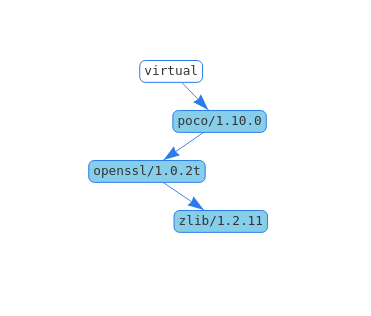
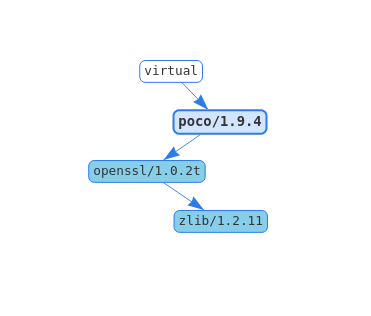
Set Poco/1.9.4 as default version

Changed region(s): [[0.4447, 0.3418, 0.7412, 0.4272]]

diff --git a/using_packages/conanfile_txt.rst b/using_packages/conanfile_txt.rst
@@ -25,7 +25,7 @@ packages are stored and cached, so they don't have to be retrieved again. You ca
 If you navigate to the folders referenced in ``conanbuildinfo.cmake`` you will find the
 headers and libraries for each package.
 
-If you execute a :command:`conan install poco/1.10.0@` command in your shell, Conan will
+If you execute a :command:`conan install poco/1.9.4@` command in your shell, Conan will
 download the Poco package and its dependencies (*openssl/1.0.2t* and
 *zlib/1.2.11*) to your local cache and print information about the folder where
 they are installed. While you can install each of your dependencies individually like that,
@@ -41,12 +41,12 @@ Here is an example:
 .. code-block:: text
 
     [requires]
-    Poco/1.10.0@pocoproject/stable
+    Poco/1.9.4@pocoproject/stable
 
 Where:
 
   - ``Poco`` is the name of the package which is usually the same as the project/library.
-  - ``1.10.0`` is the version which usually matches that of the packaged project/library. This can be any
+  - ``1.9.4`` is the version which usually matches that of the packaged project/library. This can be any
     string; it does not have to be a number, so, for example, it could indicate if this is a "develop" or "master" version.
     Packages can be overwritten, so it is also OK to have packages like "nightly" or "weekly", that
     are regenerated periodically.
@@ -101,7 +101,7 @@ We can simply enter the new version in the **[requires]** section:
 .. code-block:: text
 
     [requires]
-    poco/1.10.0
+    poco/1.9.4
     openssl/1.0.2u
 
 The second line will override the openssl/1.0.2t required by POCO with the currently non-existent **openssl/1.0.2u**.
@@ -112,7 +112,7 @@ requirement with one from another user or channel.
 .. code-block:: text
 
     [requires]
-    poco/1.10.0
+    poco/1.9.4
     openssl/1.0.2u
     zlib/1.2.11@otheruser/alpha
 
@@ -159,14 +159,14 @@ and this is the linkage that should be used if consumers don't specify otherwise
 
     .. code-block:: text
 
-        $ conan get poco/1.10.0@
+        $ conan get poco/1.9.4@
 
     To see only specific fields of the recipe you can use the :command:`conan inspect` command instead:
 
     .. code-block:: text
 
-        $ conan inspect poco/1.10.0@ -a=options
-        $ conan inspect poco/1.10.0@ -a=default_options
+        $ conan inspect poco/1.9.4@ -a=options
+        $ conan inspect poco/1.9.4@ -a=default_options
 
 For example, we can modify the previous example to use dynamic linkage instead of the default one, which was static, by editing the
 **[options]** section in ``conanfile.txt``:
@@ -174,7 +174,7 @@ For example, we can modify the previous example to use dynamic linkage instead o
 .. code-block:: text
 
     [requires]
-    poco/1.10.0
+    poco/1.9.4
 
     [generators]
     cmake
@@ -266,7 +266,7 @@ To demonstrate this, edit the ``conanfile.txt`` file and paste the following **[
 .. code-block:: text
 
     [requires]
-    poco/1.10.0
+    poco/1.9.4
 
     [generators]
     cmake

diff --git a/integrations/custom.rst b/integrations/custom.rst
@@ -35,7 +35,7 @@ Specify the ``json`` generator in your recipe:
 
     [requires]
     fmt/6.1.2
-    poco/1.10.0
+    poco/1.9.4
 
     [generators]
     json
@@ -81,7 +81,7 @@ Just specify the ``txt`` generator in your recipe:
    :caption: *conanfile.txt*
 
     [requires]
-    poco/1.10.0
+    poco/1.9.4
 
     [generators]
     txt
@@ -92,12 +92,12 @@ A file is generated with the same information in a generic text format.
    :caption: *conanbuildinfo.txt*
 
     [includedirs]
-    /home/user/.conan/data/poco/1.10.0/_/_/package/58080bce1cc38259eb7c282aa95c25aecde8efe4/include
+    /home/user/.conan/data/poco/1.9.4/_/_/package/58080bce1cc38259eb7c282aa95c25aecde8efe4/include
     /home/user/.conan/data/openssl/1.0.2t/_/_/package/f99afdbf2a1cc98ba2029817b35103455b6a9b77/include
     /home/user/.conan/data/zlib/1.2.11/_/_/package/6af9cc7cb931c5ad942174fd7838eb655717c709/include
 
     [libdirs]
-    /home/user/.conan/data/poco/1.10.0/_/_/package/58080bce1cc38259eb7c282aa95c25aecde8efe4/lib
+    /home/user/.conan/data/poco/1.9.4/_/_/package/58080bce1cc38259eb7c282aa95c25aecde8efe4/lib
     /home/user/.conan/data/openssl/1.0.2t/_/_/package/f99afdbf2a1cc98ba2029817b35103455b6a9b77/lib
     /home/user/.conan/data/zlib/1.2.11/_/_/package/6af9cc7cb931c5ad942174fd7838eb655717c709/lib
 
@@ -108,7 +108,7 @@ A file is generated with the same information in a generic text format.
     /home/user/.conan/data/openssl/1.0.2t/_/_/package/f99afdbf2a1cc98ba2029817b35103455b6a9b77/res
 
     [builddirs]
-    /home/user/.conan/data/poco/1.10.0/_/_/package/58080bce1cc38259eb7c282aa95c25aecde8efe4/
+    /home/user/.conan/data/poco/1.9.4/_/_/package/58080bce1cc38259eb7c282aa95c25aecde8efe4/
     /home/user/.conan/data/openssl/1.0.2t/_/_/package/f99afdbf2a1cc98ba2029817b35103455b6a9b77/
     /home/user/.conan/data/zlib/1.2.11/_/_/package/6af9cc7cb931c5ad942174fd7838eb655717c709/
 

diff --git a/integrations/build_system/gcc.rst b/integrations/build_system/gcc.rst
@@ -20,7 +20,7 @@ Open ``conanfile.txt`` and change (or add) **compiler_args** generator:
 .. code-block:: text
 
    [requires]
-   poco/1.10.0
+   poco/1.9.4
 
    [generators]
    compiler_args
@@ -43,14 +43,14 @@ The generated ``conanbuildinfo.args`` show:
 .. code-block:: text
 
    -DPOCO_STATIC=ON -DPOCO_NO_AUTOMATIC_LIBS
-   -I/home/user/.conan/data/poco/1.10.0/_/_/package/58080bce1cc38259eb7c282aa95c25aecde8efe4/include
+   -I/home/user/.conan/data/poco/1.9.4/_/_/package/58080bce1cc38259eb7c282aa95c25aecde8efe4/include
    -I/home/user/.conan/data/openssl/1.0.2t/_/_/package/f99afdbf2a1cc98ba2029817b35103455b6a9b77/include
    -I/home/user/.conan/data/zlib/1.2.11/_/_/package/6af9cc7cb931c5ad942174fd7838eb655717c709/include
    -m64 -O3 -s -DNDEBUG
-   -Wl,-rpath="/home/user/.conan/data/poco/1.10.0/_/_/package/58080bce1cc38259eb7c282aa95c25aecde8efe4/lib"
+   -Wl,-rpath="/home/user/.conan/data/poco/1.9.4/_/_/package/58080bce1cc38259eb7c282aa95c25aecde8efe4/lib"
    -Wl,-rpath="/home/user/.conan/data/openssl/1.0.2t/_/_/package/f99afdbf2a1cc98ba2029817b35103455b6a9b77/lib"
    -Wl,-rpath="/home/user/.conan/data/zlib/1.2.11/_/_/package/6af9cc7cb931c5ad942174fd7838eb655717c709/lib"
-   -L/home/user/.conan/data/poco/1.10.0/_/_/package/58080bce1cc38259eb7c282aa95c25aecde8efe4/lib
+   -L/home/user/.conan/data/poco/1.9.4/_/_/package/58080bce1cc38259eb7c282aa95c25aecde8efe4/lib
    -L/home/user/.conan/data/openssl/1.0.2t/_/_/package/f99afdbf2a1cc98ba2029817b35103455b6a9b77/lib
    -L/home/user/.conan/data/zlib/1.2.11/_/_/package/6af9cc7cb931c5ad942174fd7838eb655717c709/lib
    -lPocoMongoDB -lPocoNetSSL -lPocoNet -lPocoCrypto -lPocoDataSQLite -lPocoData -lPocoZip -lPocoUtil

diff --git a/mastering/conanfile_py.rst b/mastering/conanfile_py.rst
@@ -13,7 +13,7 @@ Let's take a look at the complete ``conanfile.txt`` from the previous *timer* ex
 .. code-block:: text
 
       [requires]
-      poco/1.10.0
+      poco/1.9.4
 
       [generators]
       gcc
@@ -37,7 +37,7 @@ The equivalent ``conanfile.py`` file is:
 
    class PocoTimerConan(ConanFile):
       settings = "os", "compiler", "build_type", "arch"
-      requires = "poco/1.10.0" # comma-separated list of requirements
+      requires = "poco/1.9.4" # comma-separated list of requirements
       generators = "cmake", "gcc", "txt"
       default_options = {"poco:shared": True, "openssl:shared": True}
 
@@ -72,7 +72,7 @@ If you are building your project with CMake, edit your ``conanfile.py`` and add 
 
    class PocoTimerConan(ConanFile):
       settings = "os", "compiler", "build_type", "arch"
-      requires = "poco/1.10.0"
+      requires = "poco/1.9.4"
       generators = "cmake", "gcc", "txt"
       default_options = {"poco:shared": True, "openssl:shared": True}
 

diff --git a/reference/commands/consumer/info.rst b/reference/commands/consumer/info.rst
@@ -162,7 +162,7 @@ changed (most likely due to a git push on that package):
 .. code-block:: bash
 
     $ conan info . -bo zlib/1.2.11@
-    [zlib/1.2.11], [openssl/1.0.2u], [boost/1.71.0, poco/1.10.0]
+    [zlib/1.2.11], [openssl/1.0.2u], [boost/1.71.0, poco/1.9.4]
 
 Note the result is a list of lists. When there is more than one element in one of the lists, it means
 that they are decoupled projects and they can be built in parallel by the CI system.
@@ -172,7 +172,7 @@ You can also specify the :command:`--build-order=ALL` argument, if you want just
 .. code-block:: bash
 
     $ conan info . --build-order=ALL
-    > [zlib/1.2.11], [openssl/1.0.2u], [boost/1.71.0, poco/1.10.0]
+    > [zlib/1.2.11], [openssl/1.0.2u], [boost/1.71.0, poco/1.9.4]
 
 
 Also you can get a list of nodes that would be built (simulation) in an install command specifying a build policy with the ``--build`` parameter.

diff --git a/reference/config_files/registry.txt.rst b/reference/config_files/registry.txt.rst
@@ -55,12 +55,12 @@ Here you have an example of the file *registry.json*:
         ],
         "references":{
             "nanomsg/1.1.2@bincrafters/stable":"bincrafters",
-            "poco/1.10.0@:09378ed7f51185386e9f04b212b79fe2d12d005c":"conan-center",
+            "poco/1.9.4@:09378ed7f51185386e9f04b212b79fe2d12d005c":"conan-center",
             "hello/1.0@user/channel:2bb76c9adac7b8cd7c5e3b377ac9f06934aba606":"artifactory_local"
         },
         "package_references":{
             "nanomsg/1.1.2@bincrafters/stable:26d575619895d584ff4fb07701901d53ff4cdd6b": "bincrafters",
-            "poco/1.10.0@:09378ed7f51185386e9f04b212b79fe2d12d005c":"conan-center",
+            "poco/1.9.4@:09378ed7f51185386e9f04b212b79fe2d12d005c":"conan-center",
             "hello/1.0@user/channel:2bb76c9adac7b8cd7c5e3b377ac9f06934aba606":"artifactory_local"
         }
     }

diff --git a/howtos/other_languages_package_manager/python.rst b/howtos/other_languages_package_manager/python.rst
@@ -72,7 +72,7 @@ The *conanfile.py* is a bit longer, but is still quite easy to understand:
     class PocoPyReuseConan(ConanFile):
         name = "PocoPy"
         version = "0.1"
-        requires = "poco/1.10.0", "pybind11/2.3.0@conan/stable"
+        requires = "poco/1.9.4", "pybind11/2.3.0@conan/stable"
         settings = "os", "compiler", "arch", "build_type"
         exports = "*"
         generators = "cmake"
@@ -131,7 +131,7 @@ The output of the :command:`conan install` command also shows us the dependencie
 
     Requirements
         openssl/1.0.2t from conan.io
-        poco/1.10.0 from conan.io
+        poco/1.9.4 from conan.io
         PocoPy/0.1@memsharded/testing from local
         pybind11/2.3.0@conan/stable from conan.io
         zlib/1.2.11 from conan.io

diff --git a/reference/conanfile_txt.rst b/reference/conanfile_txt.rst
@@ -16,7 +16,7 @@ List of requirements, specifying the full reference.
 .. code-block:: text
 
     [requires]
-    poco/1.10.0
+    poco/1.9.4
     zlib/1.2.11
 
 
@@ -54,7 +54,7 @@ List of :ref:`generators<generators_reference>`.
 .. code-block:: text
 
     [requires]
-    poco/1.10.0
+    poco/1.9.4
     zlib/1.2.11
 
     [generators]
@@ -70,7 +70,7 @@ List of :ref:`options<options_txt>` scoped for each package like **package_name:
 .. code-block:: text
 
     [requires]
-    poco/1.10.0
+    poco/1.9.4
     zlib/1.2.11
 
     [generators]
@@ -88,7 +88,7 @@ List of files to be imported to a local directory. Read more: :ref:`imports<impo
 .. code-block:: text
 
     [requires]
-    poco/1.10.0
+    poco/1.9.4
     zlib/1.2.11
 
     [generators]

diff --git a/faq/using.rst b/faq/using.rst
@@ -23,7 +23,7 @@ package as the starting node of the dependency graph and upstream.
 
 .. code-block:: bash
 
-    $ conan info poco/1.10.0@
+    $ conan info poco/1.9.4@
 
 .. image:: /images/conan-info_graph.png
    :align: center
@@ -42,8 +42,8 @@ dependency graph in case OpenSSL is changed we could type:
 
 .. code-block:: bash
 
-    $ conan info poco/1.10.0@ -bo openssl/1.0.2t
-    [openssl/1.0.2t], [poco/1.10.0]
+    $ conan info poco/1.9.4@ -bo openssl/1.0.2t
+    [openssl/1.0.2t], [poco/1.9.4]
 
 If OpenSSL is changed, we would need to rebuild it (of course) and rebuild Poco.
 

diff --git a/mastering/policies.rst b/mastering/policies.rst
@@ -27,7 +27,7 @@ With the ``build_policy`` attribute in the `conanfile.py` the package creator ca
 
     class PocoTimerConan(ConanFile):
         settings = "os", "compiler", "build_type", "arch"
-        requires = "poco/1.10.0" # comma-separated list of requirements
+        requires = "poco/1.9.4" # comma-separated list of requirements
         generators = "cmake", "gcc", "txt"
         default_options = {"poco:shared": True, "poco:shared": True}
         build_policy = "always" # "missing"

diff --git a/howtos/manage_shared_libraries/rpaths.rst b/howtos/manage_shared_libraries/rpaths.rst
@@ -34,7 +34,7 @@ directory to be able to run it:
 .. code-block:: text
 
     [requires]
-    poco/1.10.0
+    poco/1.9.4
 
     [imports]
     bin, *.dll -> ./bin # Copies all dll files from packages bin folder to my "bin" folder
@@ -124,7 +124,7 @@ You can use this imports statements in the consumer project:
 .. code-block:: text
 
     [requires]
-    poco/1.10.0
+    poco/1.9.4
 
     [imports]
     bin, *.dll -> ./bin # Copies all dll files from packages bin folder to my "bin" folder

diff --git a/mastering/conditional.rst b/mastering/conditional.rst
@@ -23,7 +23,7 @@ Here is an example of what we could do in our **configure method**:
 .. code-block:: python
 
       ...
-      requires = "poco/1.10.0" # We will add OpenSSL dynamically "OpenSSL/1.0.2d@lasote/stable"
+      requires = "poco/1.9.4" # We will add OpenSSL dynamically "OpenSSL/1.0.2d@lasote/stable"
       ...
 
       def configure(self):
